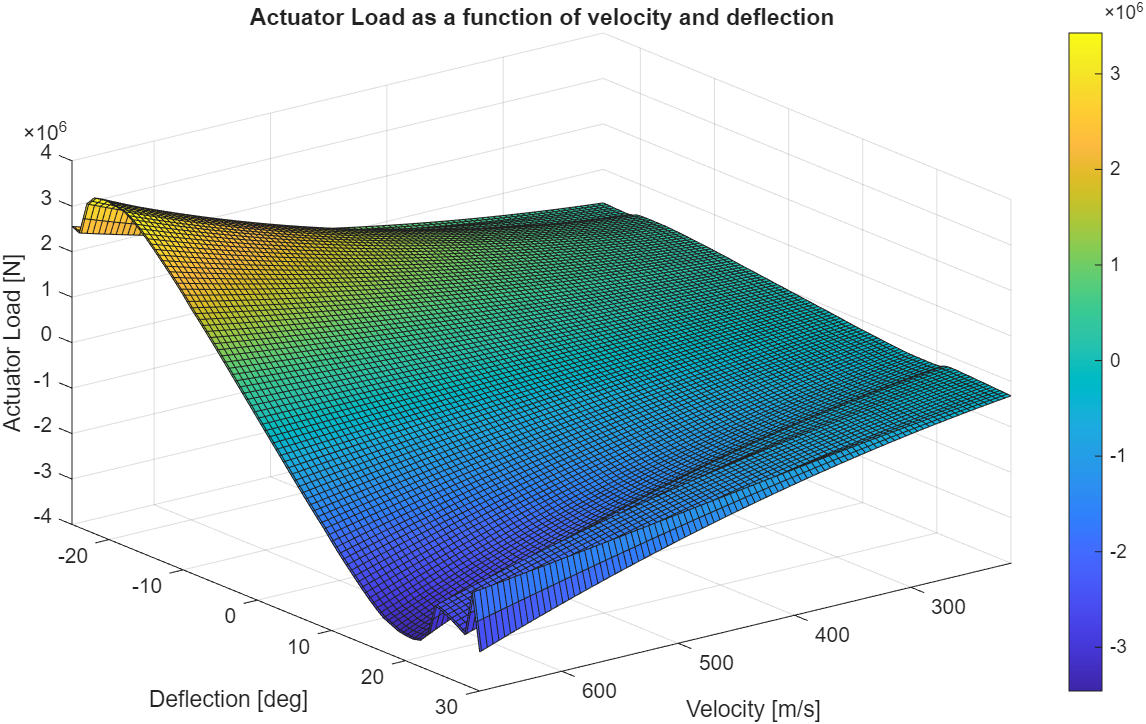
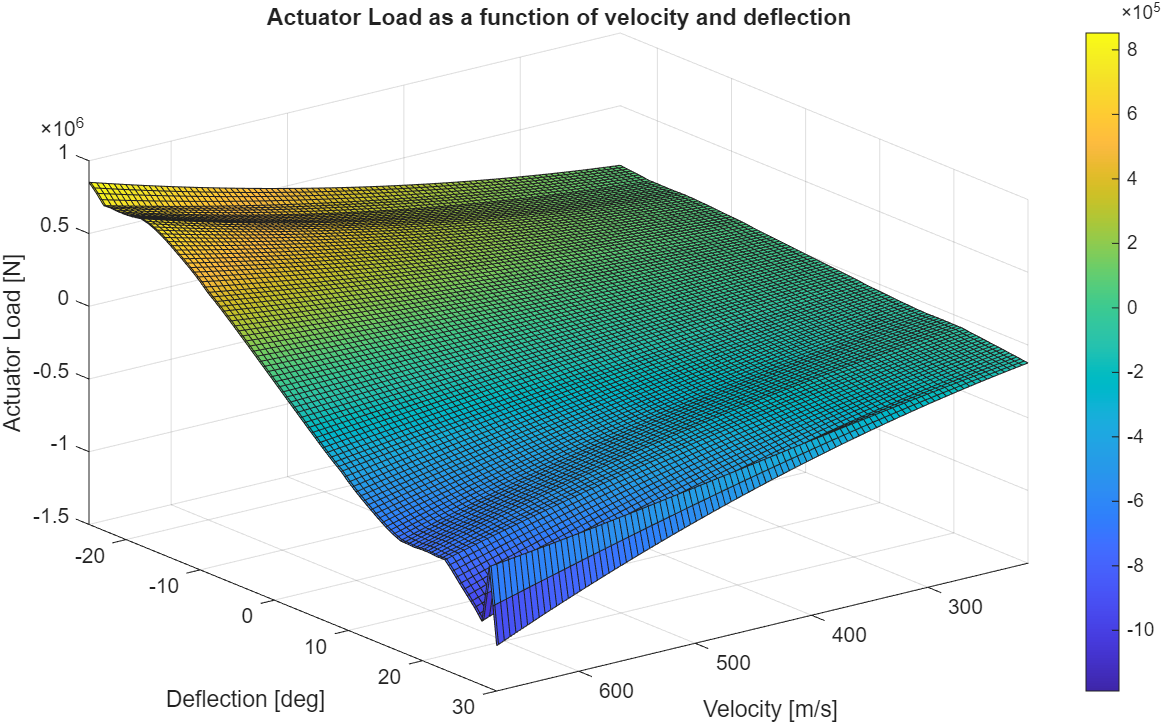
Corrected a critical error
Force arm was calculated incorrectly

diff --git a/Report/Report.tex b/Report/Report.tex
@@ -399,76 +399,44 @@
 	
 	\subsection{Required actuator parameters}
 	
-	To properly size the Electro-Hydrostatic Actuator (EHA), the kinematic and dynamic limits must be extracted from the simulated operational envelope. The fundamental parameters dictating the actuator selection are the total stroke, the maximum structural loads, and the linear slew rate.
+	To select a Commercial Off-The-Shelf (COTS) Electro-Hydrostatic Actuator (EHA) suitable for this simulation, the minimum kinematic requirements must first be established based on the F-22's geometry and low-speed maneuverability needs.
 	
-	\subsubsection{Geometric Stroke Requirement}
-	The total required linear travel (stroke) of the actuator, $\Delta x_{total}$, is determined by the absolute difference between the maximum and minimum extensions required to achieve the full stabilator deflection range of $-25^\circ$ to $30^\circ$:
+	\subsubsection{Kinematic Requirements}
+	Regardless of high-speed aerodynamic limiting, the actuator must physically be capable of extending and retracting enough to cover the full stabilator deflection range ($-25^\circ$ to $30^\circ$) during low-speed flight and ground operations. The total required stroke ($\Delta x_{total}$) is:
 	\begin{equation}
-		\Delta x_{total} = \Delta x_{max} - \Delta x_{min}
+		\Delta x_{total} = \Delta x_{max} - \Delta x_{min} = 163.61 \text{ mm}
 	\end{equation}
 	
-	\subsubsection{Structural Load Limits}
-	The actuator must withstand both tensile (pulling) and compressive (pushing) forces generated by the aerodynamic hinge moments. The maximum tensile load ($F_{tensile, max}$) and compressive load ($F_{comp, max}$) are found by evaluating the absolute extremes of the dynamic actuator force ($F_{act}$) across all simulated velocities and deflection angles:
-	\begin{align}
-		F_{tensile, max} &= \max(F_{act}) \\
-		F_{comp, max} &= \left| \min(F_{act}) \right|
-	\end{align}
+	A deflection rate limit has to be assumed to define the dynamic requirement. The value of $\dot{\alpha}_{max} = 60^\circ/\text{s}$ is assumed since it is a standard limit among American fighter jets \autocite{deflectionrate}, although the data for the F-22 specifically is not available.
 	
-	\subsubsection{Dynamic Slew Rate}
-	
-	A deflection rate limit has to be assumed to define the requirement. The value of $\dot{\alpha}_{max} = 60^\circ/\text{s}$ is assumed since it is a standard limit among American fighter jets \autocite{deflectionrate} although the data for the F-22 specifically is not available.
-	
-	The linear slew rate ($v_{act}$) dictates how fast the actuator must extend or retract to achieve a specific angular rotation rate of the stabilator. The maximum linear velocity is calculated using the highest rate of change of the extension with respect to the deflection angle:
-	
+	The linear slew rate ($v_{act}$) dictates how fast the actuator must extend or retract to achieve this angular rotation rate. The maximum linear velocity is calculated using the highest rate of change of the extension with respect to the deflection angle:
 	\begin{equation}
-		v_{act} = \max \left| \frac{d(\Delta x)}{d(\Delta \alpha)} \right| \cdot \dot{\alpha}_{max}
+		v_{act} = \max \left| \frac{d(\Delta x)}{d(\Delta \alpha)} \right| \cdot \dot{\alpha}_{max} = 185.84 \text{ mm/s}
 	\end{equation}
 	
-	\subsubsection{Power Requirements}
-	The peak mechanical power ($P_{mech, max}$) required at the actuator rod is a product of the absolute maximum structural load and the maximum linear slew rate. Using the most extreme compressive load case:
-	\begin{equation}
-		P_{mech, max} = F_{comp, max} \cdot v_{act}
-	\end{equation}
-	\begin{equation}
-		P_{mech, max} = 3,456,978 \text{ N} \cdot 0.18584 \text{ m/s} \approx 642.4 \text{ kW}
-	\end{equation}
+	\subsubsection{Load and Envelope Limiting Strategy}
+	The theoretical structural loads ($F_{act}$) and corresponding power requirements ($P_{mech, max}$ and $P_{elec, max}$) are mathematically derived by evaluating the absolute extremes across all simulated velocities and deflection angles. 
 	
-	To size the Brushless DC Motor, the overall efficiency of the Electro-Hydrostatic system must be considered. The required peak electrical power ($P_{elec, max}$) of the motor is given by:
-	\begin{equation}
-		P_{elec, max} = \frac{P_{mech, max}}{\eta_{pump} \cdot \eta_{motor}}
-	\end{equation}
-	where $\eta_{pump}$ is the volumetric and mechanical efficiency of the hydraulic pump, and $\eta_{motor}$ is the electrical efficiency of the BLDCM.
+	These theoretical requirements for the EHA are presented in Table \ref{table:hydro_reqs}. However, calculating hinge moments at maximum velocity (Mach 2.25) and maximum deflection ($30^\circ$) yields theoretical loads exceeding 1.18 MN and electrical power demands approaching 288 kW. In reality, such deflections at maximum dynamic pressure are impractical and would cause catastrophic structural failure. Modern flight control systems employ \enquote{blowdown limits} to actively restrict control surface deflection at high speeds.
 	
-	\subsubsection{Derived requirements}
+	For that reason, rather than sizing a theoretical actuator to meet impossible worst-case loads, an actuator produced by typical American military suppliers (e.g., Moog or Parker Aerospace) that meets the practical kinematic requirements will be selected. After that, the allowed deflection angles at different speeds will be calculated based on the maximum load capabilities of that specific actuator.
 	
 	\begin{table}[H]
 		\centering
-		\begin{tabular}{l c}
+		\begin{tabular}{l c c}
 			\toprule
-			Parameter & Value \\
+			Parameter & Value & Requirement Type \\
 			\midrule
-			Total Stroke Required & 163.61 mm \\
-			Max Tensile Load & 3,427,240 N  (770,443 lbf) \\
-			Max Compressive Load & 3,456,978 N (777,129 lbf) \\
-			Max Slew Rate & 185.84 mm/s \\
+			Total Stroke Required & 163.61 mm & Practical \\
+			Max Tensile Load & 852,295 N (191,596 lbf) & Theoretical \\
+			Max Compressive Load & 1,188,203 N (267,108 lbf) & Theoretical \\
+			Max Slew Rate & 185.84 mm/s & Practical \\
+			Max Mechanical Power & 220.82 kW & Theoretical \\
+			Max Electrical Power & 288.65 kW & Theoretical \\
 			\bottomrule
 		\end{tabular}
-		\caption{Derived hydraulic jack performance and load requirements.}
+		\caption{Derived EHA actuator performance and load requirements. Theoretical requirements correspond to impossible scenarios. An actuator will be chosen based on the practical parameters alone.}
 		\label{table:hydro_reqs}
-	\end{table}
-	
-		\begin{table}[H]
-		\centering
-		\begin{tabular}{l c}
-			\toprule
-			Parameter & Value \\
-			\midrule
-			Max Mechanical Power & 642.46 kW \\
-			Max Electrical Power & 839.82 kW \\
-			\bottomrule
-		\end{tabular}
-		\caption{Derived brushless electric DC motor performance and load requirements.}
-		\label{table:electric_reqs}
 	\end{table}
 	
 	\subsection{Commercial product selection}

diff --git a/Code_files/Relation.m b/Code_files/Relation.m
@@ -32,7 +32,7 @@ stab_area = 6.315; % m2
 pivot_axis_pos = 1.982; % m from root chord LE
 
 [MAC, density, V_max, V_min, Re_max, Re_min, ~, ~, MAC_offset] = Re_calculations(draw_stabilator);
-arm = MAC_offset-MAC*0.25-pivot_axis_pos; % m
+arm = MAC_offset+MAC*0.25-pivot_axis_pos; % m
 velocity = [V_min:5:V_max V_max]; % m/s
 velocity = velocity';
 

diff --git a/EHA_initialization.m b/EHA_initialization.m
@@ -42,5 +42,3 @@ K_vis = 150;        % Piston viscous friction coefficient [N/(m/s)]
 % These are typical values to prevent numerical algebraic loops near zero velocity
 alpha = 0.005;      % Stribeck shape factor [m/s]
 beta = 0.001;       % Tanh smoothing factor [m/s]
-
-disp('EHA Parameters Loaded Successfully.');
